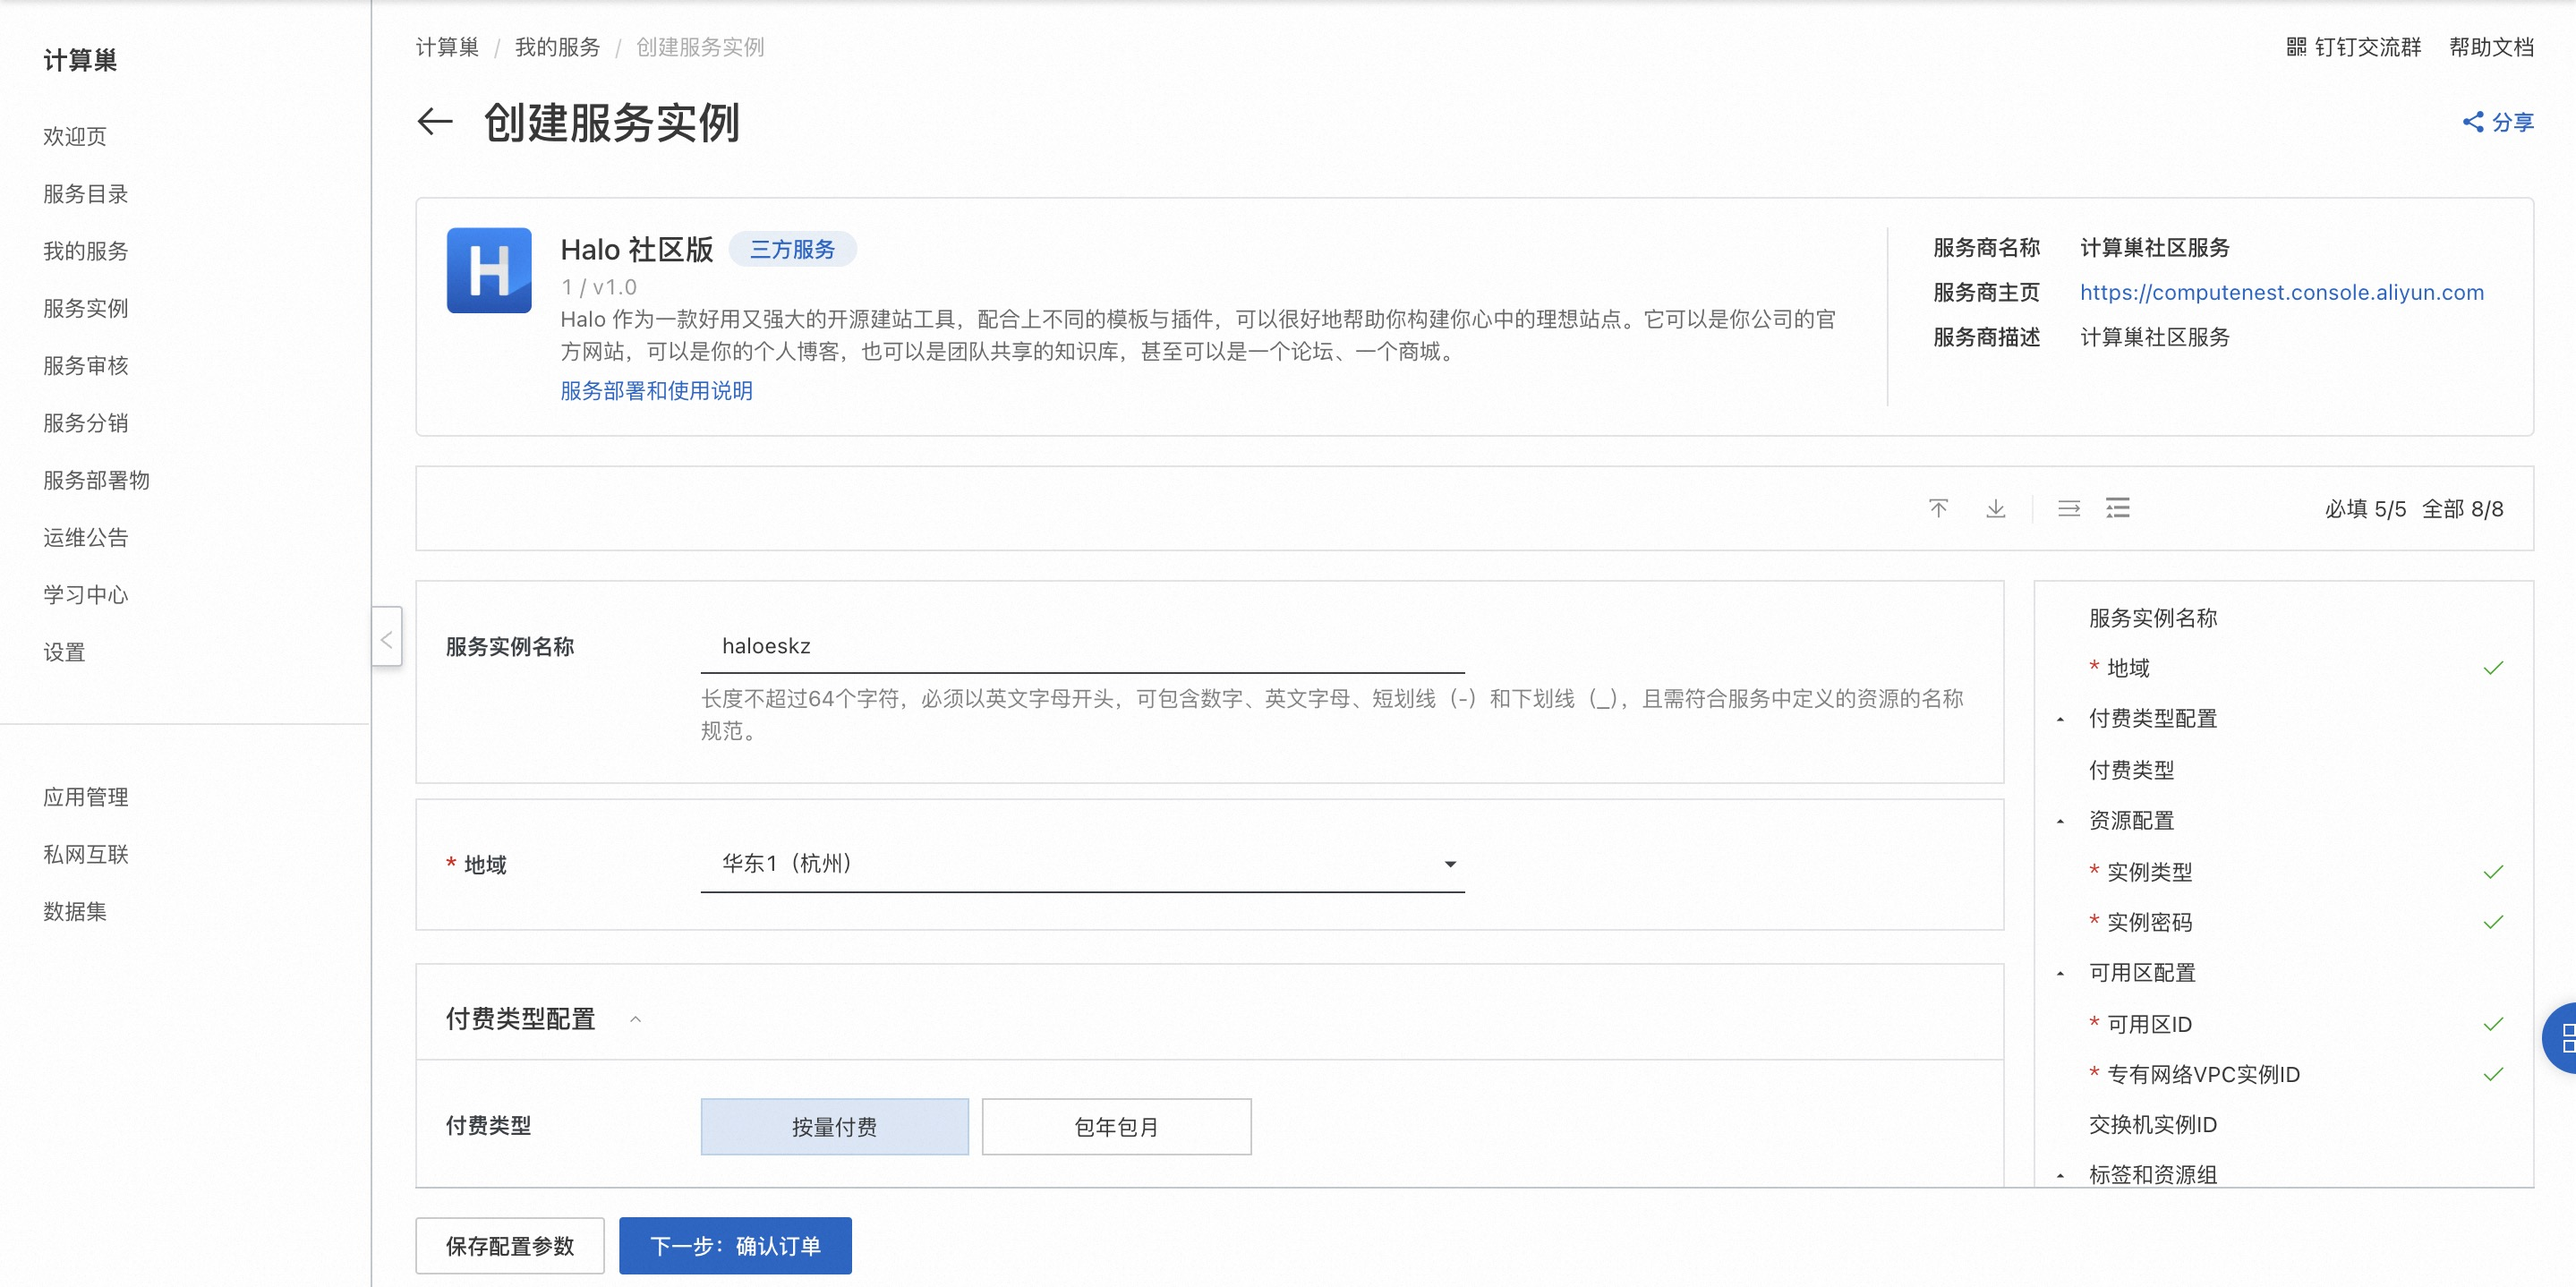
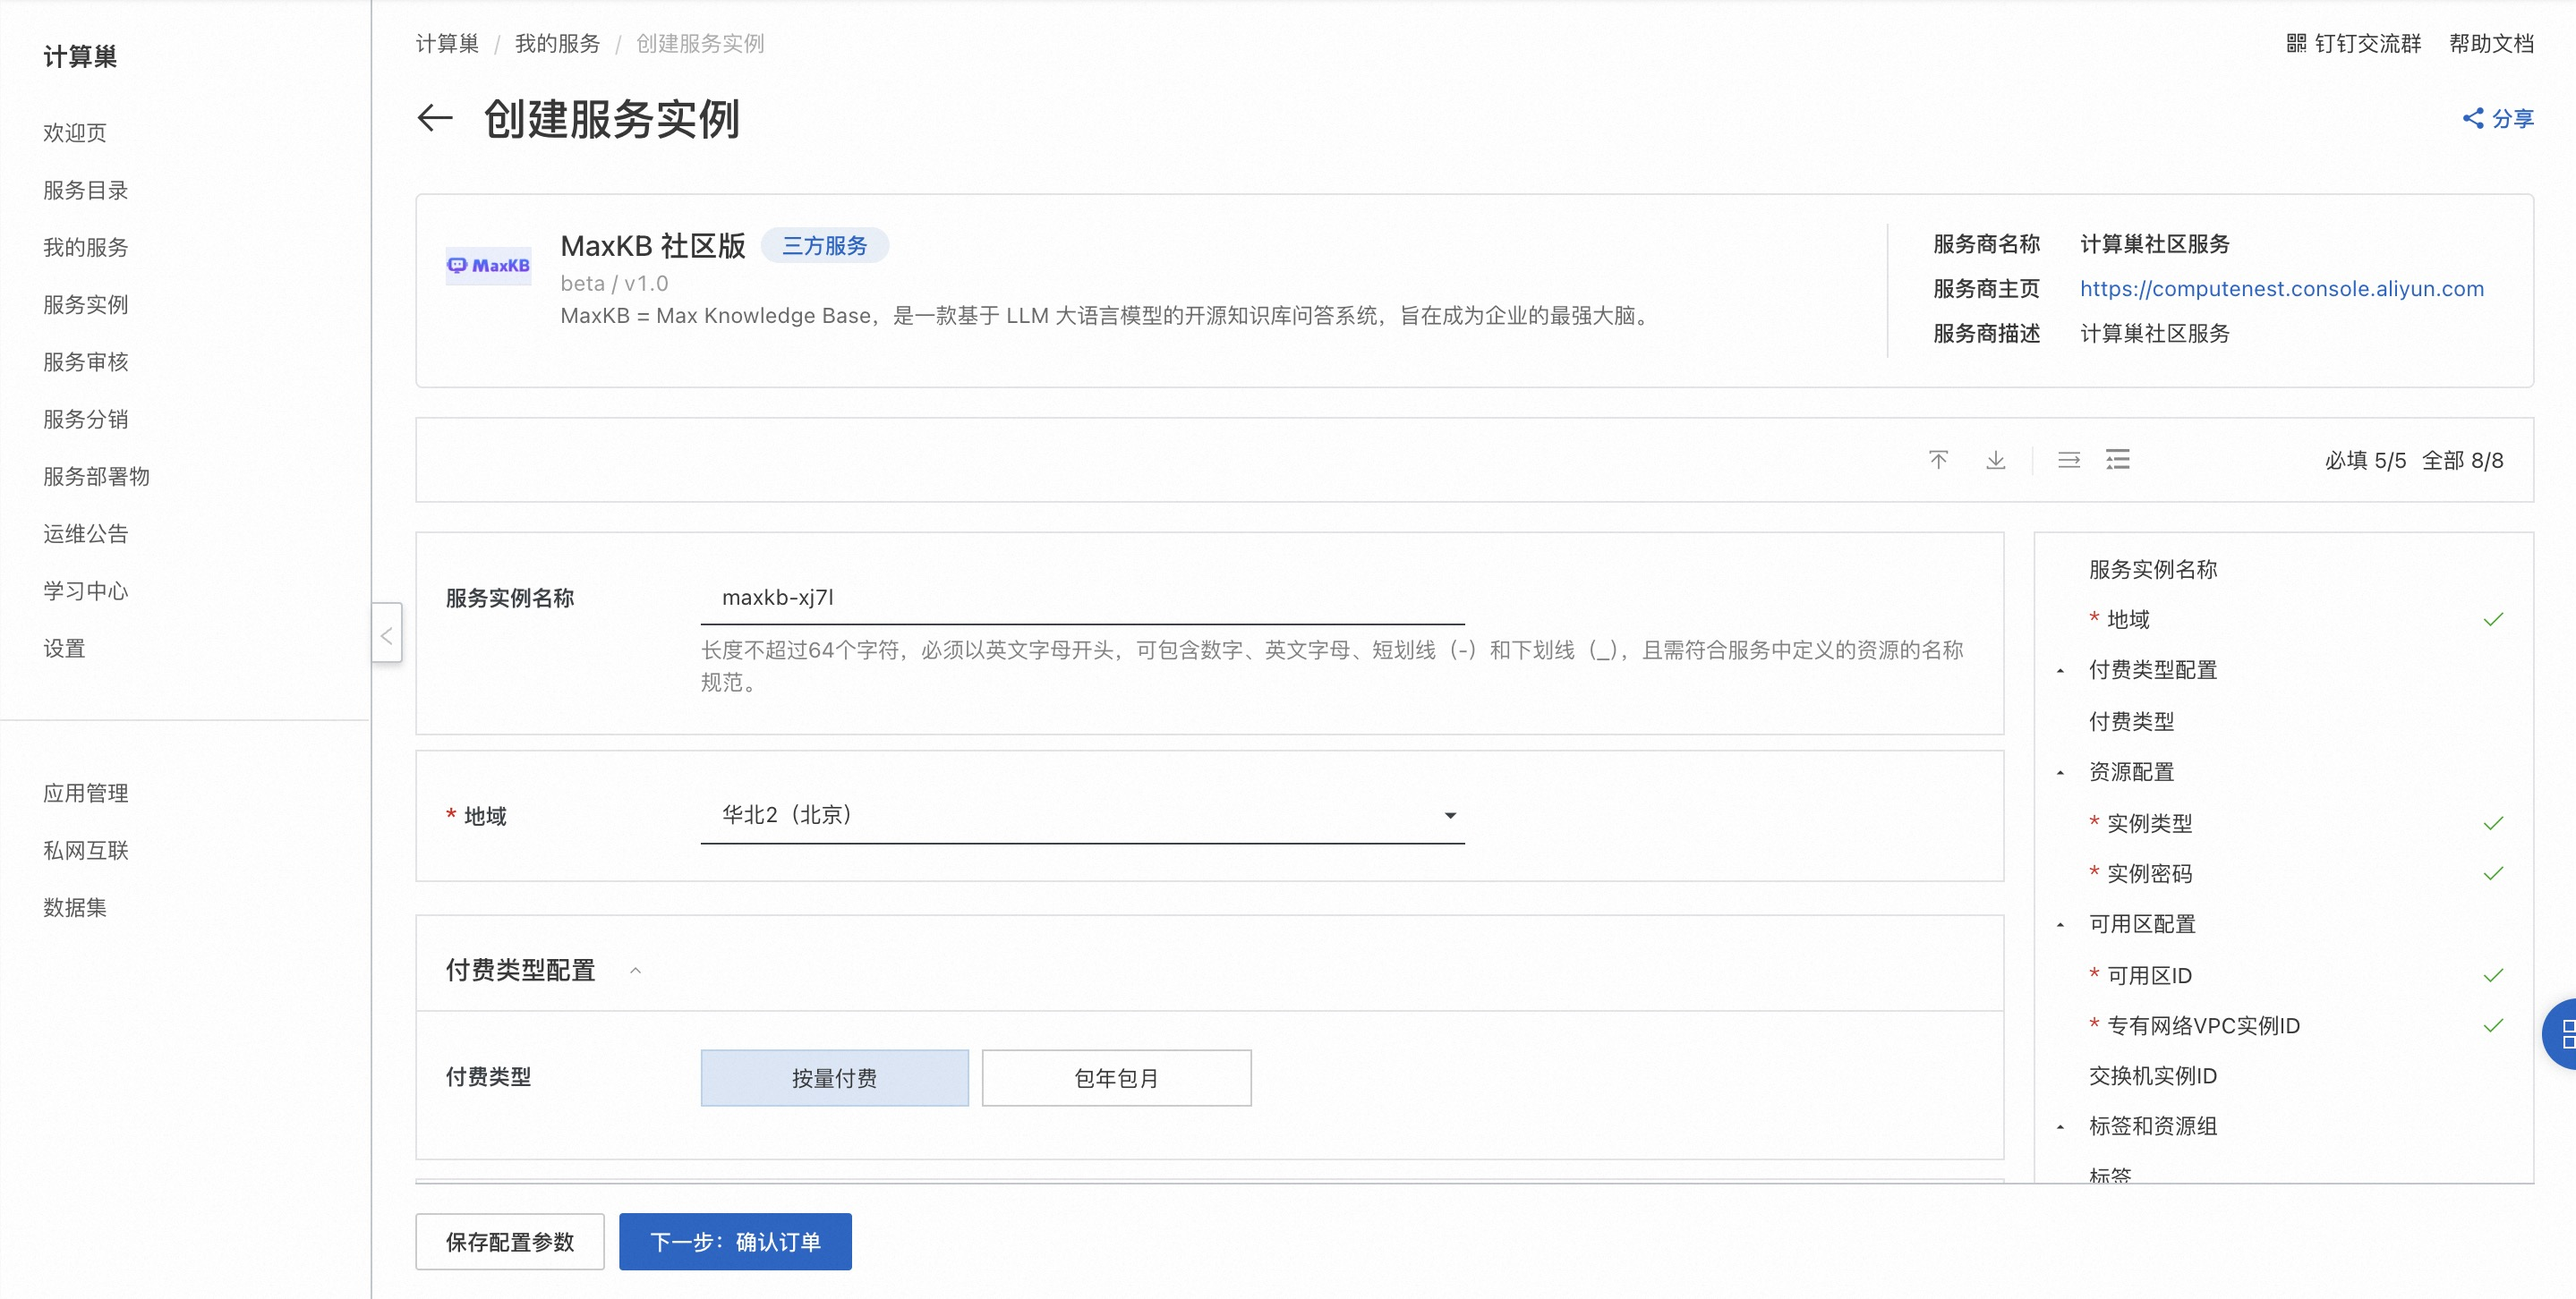
add docs

diff --git a/docs/index.md b/docs/index.md
@@ -1,11 +1,16 @@
-# Halo 社区版快速部署
+# MaxKB 社区版快速部署
 
 ## 概述
-Halo 作为一款好用又强大的开源建站工具，配合上不同的模板与插件，可以很好地帮助你构建你心中的理想站点。它可以是你公司的官方网站，可以是你的个人博客，也可以是团队共享的知识库，甚至可以是一个论坛、一个商城。 详情请查看[Halo官网](https://docs.halo.run/)。
+MaxKB = Max Knowledge Base，是一款基于 LLM 大语言模型的开源知识库问答系统，旨在成为企业的最强大脑。详情请查看[MaxKB官网](https://maxkb.cn/)。
+
+- 开箱即用：支持直接上传文档、自动爬取在线文档，支持文本自动拆分、向量化、RAG（检索增强生成），智能问答交互体验好；
+- 模型中立：支持对接各种大语言模型，包括本地私有大模型（Llama 3 / Qwen 2 等）、国内公共大模型（通义千问 / 智谱 AI / 百度千帆 / Kimi / DeepSeek 等）和国外公共大模型（OpenAI / Azure OpenAI / Gemini 等）；
+- 灵活编排：内置强大的工作流引擎，支持编排 AI 工作过程，满足复杂业务场景下的需求；
+- 无缝嵌入：支持零编码快速嵌入到第三方业务系统，让已有系统快速拥有智能问答能力，提高用户满意度。
 
 
 ## 计费说明
-Halo 社区版上的费用主要涉及：
+MaxKB 社区版上的费用主要涉及：
 
 - 所选vCPU与内存规格
 - 系统盘类型及容量
@@ -13,7 +18,7 @@ Halo 社区版上的费用主要涉及：
 
 
 ## RAM账号所需权限
-部署Halo 社区版，需要对部分阿里云资源进行访问和创建操作。因此您的账号需要包含如下资源的权限。
+部署MaxKB 社区版，需要对部分阿里云资源进行访问和创建操作。因此您的账号需要包含如下资源的权限。
   **说明**：当您的账号是RAM账号时，才需要添加此权限。
 
 | 权限策略名称                          | 备注                                 |
@@ -25,11 +30,11 @@ Halo 社区版上的费用主要涉及：
 
 ## 部署流程
 
-1. 访问Halo 社区版服务[部署链接](https://computenest.console.aliyun.com/service/instance/create/cn-hangzhou?type=user&ServiceId=service-71b471d79c224520bba3)，按提示填写部署参数：
+1. 访问MaxKB 社区版服务[部署链接](https://computenest.console.aliyun.com/service/instance/create/cn-hangzhou?type=user&ServiceId=service-71b471d79c224520bba3)，按提示填写部署参数：
   ![image.png](1.jpg)
 
 2. 参数填写完成后可以看到对应询价明细，确认参数后点击**下一步：确认订单**。确认订单完成后同意服务协议并点击**立即创建**进入部署阶段。 
-3. 等待部署完成后进入服务实例管理, 在控制台找到Halo服务访问链接。
+3. 等待部署完成后进入服务实例管理, 在控制台找到MaxKB服务访问链接。
   ![image.png](2.jpg)
 4. 单击链接访问服务。
   ![image.png](3.jpg)
